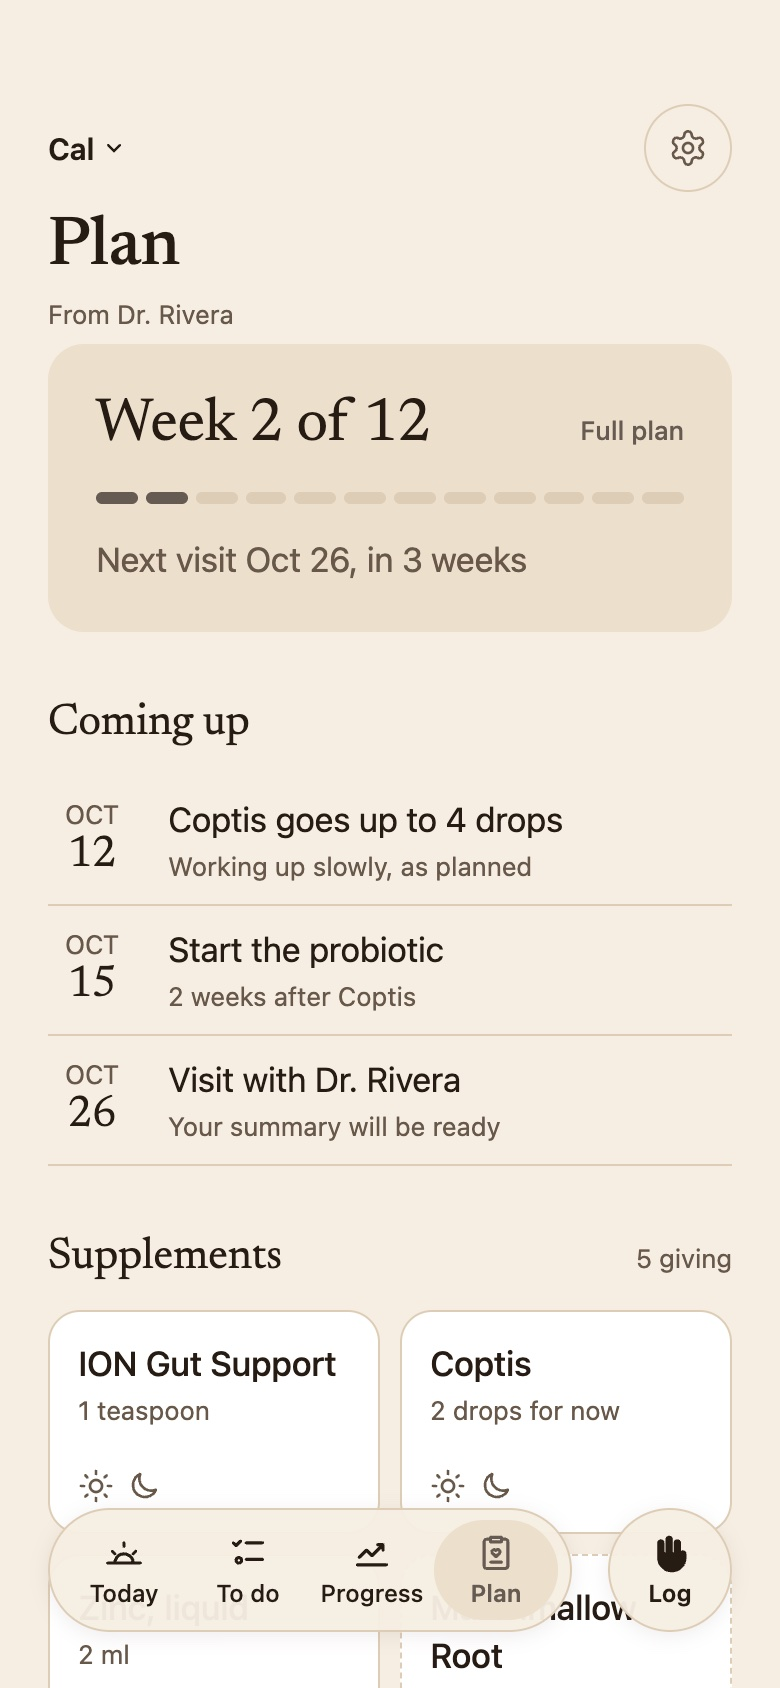
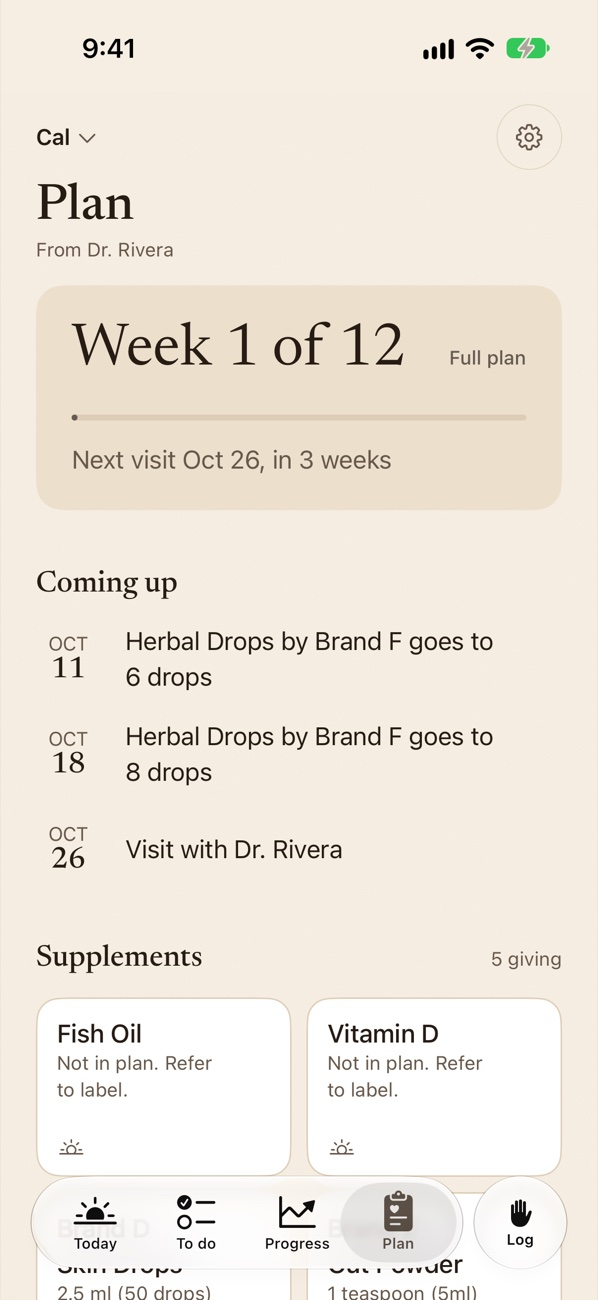
Site: Plan and To do pictures from the current app (build 3)

diff --git a/web/index.html b/web/index.html
@@ -58,7 +58,7 @@ details.faq summary{list-style:none;cursor:pointer}details.faq summary::-webkit-
 <div style="position:absolute;top:14px;left:50%;transform:translateX(-50%);width:124px;height:36px;border-radius:999px;background:#000"></div>
 </div></div></div></section>
 <section id="plan" style="box-sizing:border-box;padding:96px 120px;background:var(--surface);display:grid;grid-template-columns:repeat(2, minmax(0, 1fr));gap:80px;align-items:center"><div style="display:flex;justify-content:center;align-items:center;gap:var(--s5);flex-wrap:wrap"><div style="width:414px;height:868px;box-sizing:border-box;padding:12px;border-radius:58px;background:var(--mock-frame)">
-<div style="width:100%;height:100%;border-radius:46px;overflow:hidden"><img src="shots/plan-day.jpg" alt="Cali Care’s Plan screen: week 2 of 12, the next visit, and what’s coming up" style="width:100%;height:100%;display:block;object-fit:cover;object-position:top"></div>
+<div style="width:100%;height:100%;border-radius:46px;overflow:hidden"><img src="shots/plan-day.jpg" alt="Cali Care’s Plan screen: week 1 of 12, the next visit, and what’s coming up" style="width:100%;height:100%;display:block;object-fit:cover;object-position:top"></div>
 </div></div><div style="display:flex;flex-direction:column;gap:var(--s4)"><span class="t-label" style="color:var(--accent)">Care plan</span><h2 style="margin:0;font-family:var(--serif);font-weight:500;font-size:44px;line-height:52px">Bring in your care plan.</h2><!-- VERIFY: plan-import --><p class="muted" style="margin:0;font-size:19px;line-height:30px;max-width:520px">Take a photo of the care plan from your doctor or practitioner, or add it as a PDF. Cali Care turns it into a short list for the morning, afternoon, and bedtime, with your provider’s exact words a tap away.</p><!-- /VERIFY --><p class="t-caption muted" style="margin:0">Importing a plan requires signing in.</p></div></section>
 <section id="todo" style="box-sizing:border-box;padding:96px 120px;display:grid;grid-template-columns:repeat(2, minmax(0, 1fr));gap:80px;align-items:center"><div style="display:flex;flex-direction:column;gap:var(--s4)"><span class="t-label" style="color:var(--accent)">To do</span><h2 style="margin:0;font-family:var(--serif);font-weight:500;font-size:44px;line-height:52px">Your care plan, as a to-do list.</h2><p class="muted" style="margin:0;font-size:19px;line-height:30px;max-width:520px">It counts skin-care rounds and shows which supplements to give when, so you don’t have to keep it all in your head.</p></div><div style="display:flex;justify-content:center;align-items:center;gap:var(--s5);flex-wrap:wrap"><div style="width:414px;height:868px;box-sizing:border-box;padding:12px;border-radius:58px;background:var(--mock-frame)">
 <div style="width:100%;height:100%;border-radius:46px;overflow:hidden"><img src="shots/todo-day.jpg" alt="Cali Care’s To do screen: the care plan as a list for the morning, with the next step highlighted" style="width:100%;height:100%;display:block;object-fit:cover;object-position:top"></div>
@@ -140,7 +140,7 @@ details.faq summary{list-style:none;cursor:pointer}details.faq summary::-webkit-
 <div style="position:absolute;top:11px;left:50%;transform:translateX(-50%);width:99px;height:28px;border-radius:999px;background:#000"></div>
 </div></div></div></section>
 <section id="plan-m" style="box-sizing:border-box;padding:56px var(--gutter);background:var(--surface);display:flex;flex-direction:column;gap:var(--s5)"><div style="display:flex;flex-direction:column;gap:var(--s4)"><span class="t-label" style="color:var(--accent)">Care plan</span><h2 style="margin:0;font-family:var(--serif);font-weight:500;font-size:32px;line-height:38px">Bring in your care plan.</h2><!-- VERIFY: plan-import --><p class="muted" style="margin:0;font-size:17px;line-height:26px;max-width:520px">Take a photo of the care plan from your doctor or practitioner, or add it as a PDF. Cali Care turns it into a short list for the morning, afternoon, and bedtime, with your provider’s exact words a tap away.</p><!-- /VERIFY --><p class="t-caption muted" style="margin:0">Importing a plan requires signing in.</p></div><div style="display:flex;justify-content:center;align-items:center;gap:var(--s5);flex-wrap:wrap"><div style="width:331px;height:694px;box-sizing:border-box;padding:9px;border-radius:46px;background:var(--mock-frame)">
-<div style="width:100%;height:100%;border-radius:36px;overflow:hidden"><img src="shots/plan-day.jpg" alt="Cali Care’s Plan screen: week 2 of 12, the next visit, and what’s coming up" style="width:100%;height:100%;display:block;object-fit:cover;object-position:top"></div>
+<div style="width:100%;height:100%;border-radius:36px;overflow:hidden"><img src="shots/plan-day.jpg" alt="Cali Care’s Plan screen: week 1 of 12, the next visit, and what’s coming up" style="width:100%;height:100%;display:block;object-fit:cover;object-position:top"></div>
 </div></div></section>
 <section id="todo-m" style="box-sizing:border-box;padding:56px var(--gutter);display:flex;flex-direction:column;gap:var(--s5)"><div style="display:flex;flex-direction:column;gap:var(--s4)"><span class="t-label" style="color:var(--accent)">To do</span><h2 style="margin:0;font-family:var(--serif);font-weight:500;font-size:32px;line-height:38px">Your care plan, as a to-do list.</h2><p class="muted" style="margin:0;font-size:17px;line-height:26px;max-width:520px">It counts skin-care rounds and shows which supplements to give when, so you don’t have to keep it all in your head.</p></div><div style="display:flex;justify-content:center;align-items:center;gap:var(--s5);flex-wrap:wrap"><div style="width:331px;height:694px;box-sizing:border-box;padding:9px;border-radius:46px;background:var(--mock-frame)">
 <div style="width:100%;height:100%;border-radius:36px;overflow:hidden"><img src="shots/todo-day.jpg" alt="Cali Care’s To do screen: the care plan as a list for the morning, with the next step highlighted" style="width:100%;height:100%;display:block;object-fit:cover;object-position:top"></div>

diff --git a/scripts/site/gen_site.py b/scripts/site/gen_site.py
@@ -179,7 +179,7 @@ def build(desk):
     plan_text = (verify('plan-import', P('Take a photo of the care plan from your doctor or practitioner, or add it as a PDF. Cali Care turns it into a short list for the morning, afternoon, and bedtime, with your provider’s exact words a tap away.'))
                  + small('Importing a plan requires signing in.'))
     out.append(feature('plan', 'Care plan', 'Bring in your care plan.', plan_text,
-                       shot('plan-day.jpg', 'Cali Care’s Plan screen: week 2 of 12, the next visit, and what’s coming up', sc),
+                       shot('plan-day.jpg', 'Cali Care’s Plan screen: week 1 of 12, the next visit, and what’s coming up', sc),
                        flip=True, bg='var(--surface)'))
 
     # 3. To do
